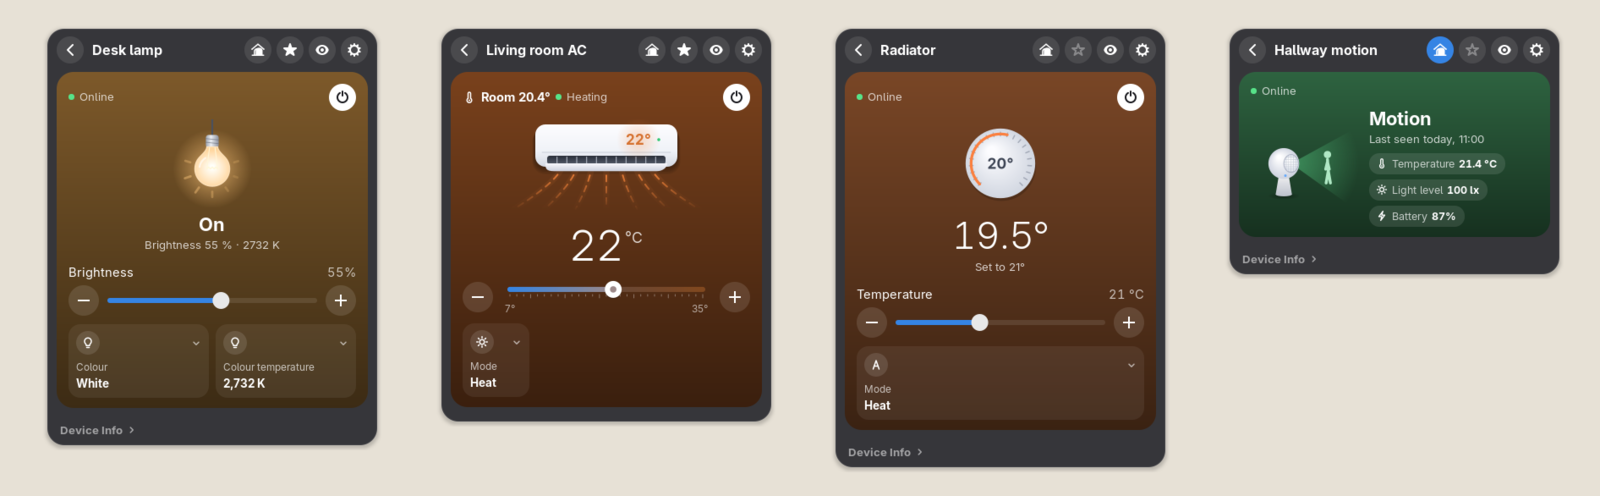
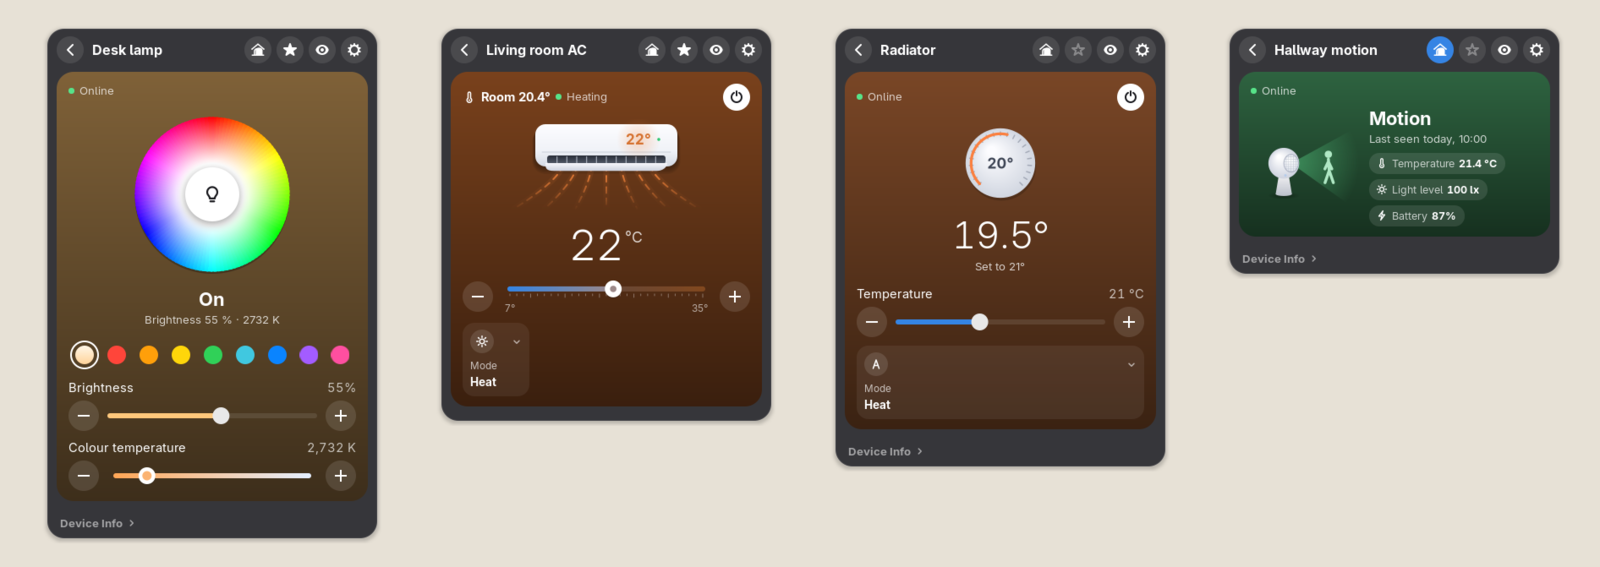
README shots with the bottom tabs and the room picker

diff --git a/README.md b/README.md
@@ -65,7 +65,7 @@ Home Assistant knows comes in through Home Assistant.
   do. Tiles keep the order set in Settings or go by name.
 
 <p align="center">
-  <img src="docs/layouts.png" alt="The same home as rooms in tabs, as small tiles and as modules">
+  <img src="docs/layouts.png" alt="The same home with all rooms, as small tiles and as modules, with tabs at the bottom">
 </p>
 
 ## Install
